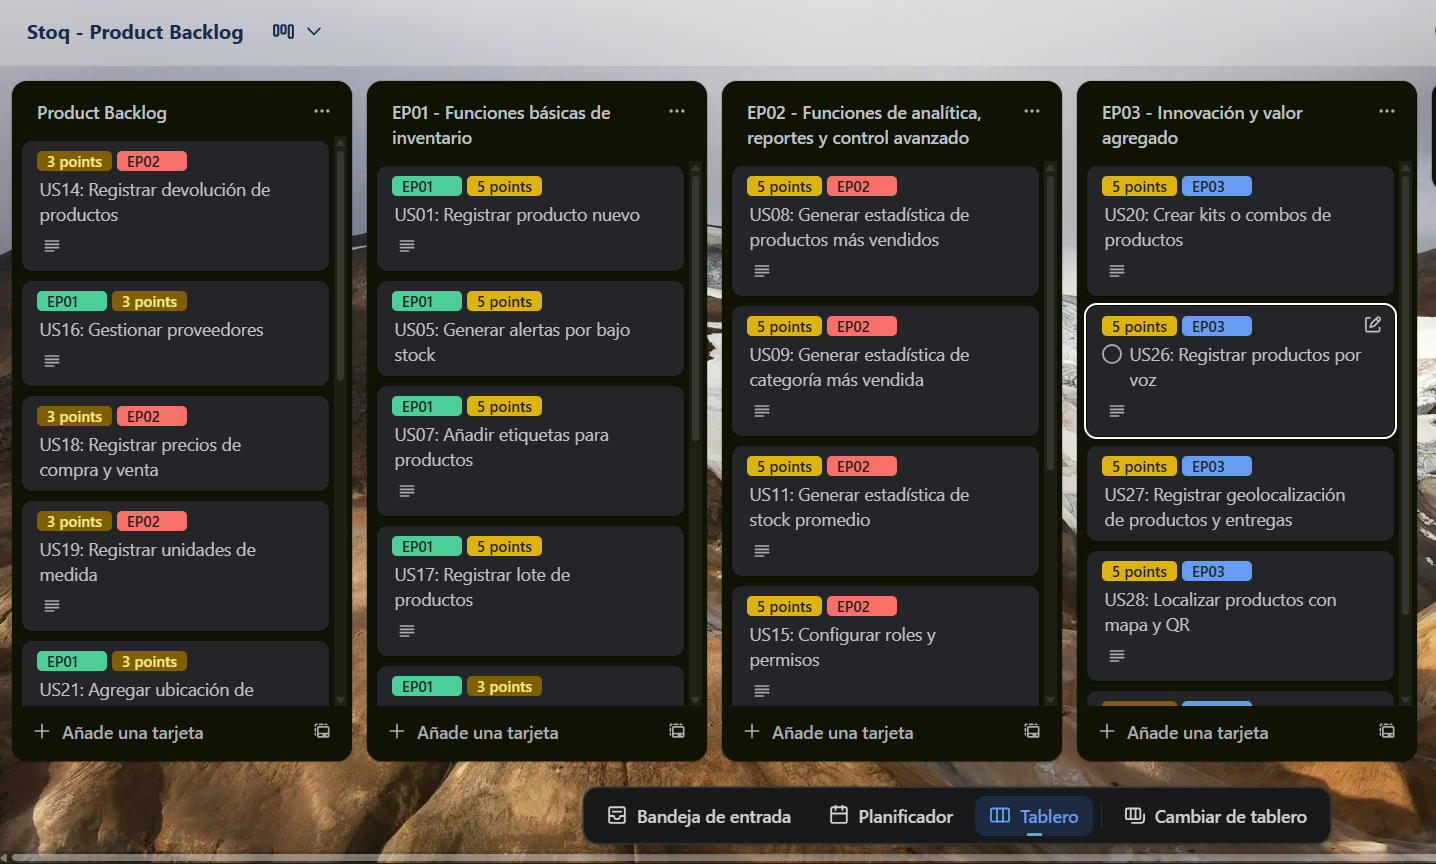
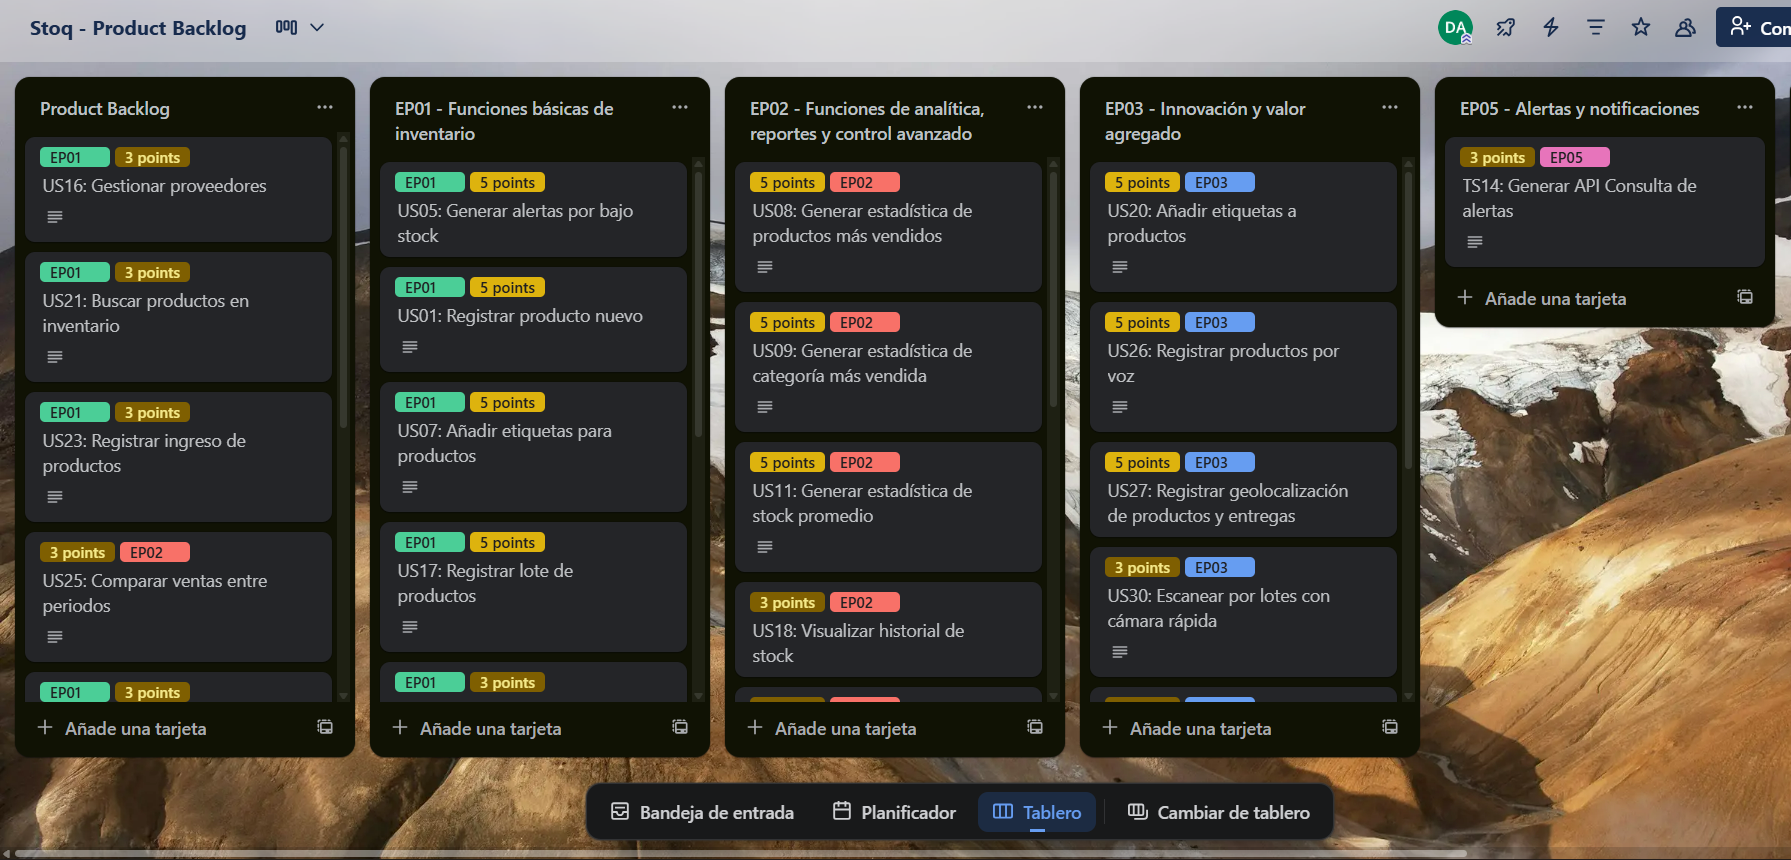
docs: Product Backlog nueva version2

diff --git a/README.md b/README.md
@@ -449,13 +449,13 @@ La finalidad de realizar entrevistas es obtener un alcance más completo sobre l
 ### 2.2.3. Análisis de entrevistas
 
 **Segmento 1: Bodegas especializadas por rubro**
-Los entrevistados (Milagros, Elvis, Catalina) gestionan inventarios de forma manual, con apuntes en cuadernos o Excel, lo que genera dificultades para mantener un control preciso y actualizado. Las principales problemáticas incluyen falta de control sobre fechas de vencimiento, pérdidas por productos no vendidos a tiempo, ausencia de automatización, y falta de sistemas que permitan actualizar precios en tiempo real o visualizar el inventario de manera dinámica. Los entrevistados manifiestan la necesidad de plataformas digitales con alertas y reportes para mejorar la gestión, delegar tareas y reducir errores humanos, lo que apuntaría a una alta demanda por soluciones tecnológicas accesibles y específicas para bodegas tradicionales.
+Los entrevistados (Milagros, Elvis, Catalina) gestionan inventarios de forma manual, con cuadernos o Excel, lo que dificulta mantener la información precisa y actualizada. Cuando los datos llegan tarde, los productos se vencen sin que nadie lo note y se pierden ventas; además, los cambios de precio no quedan registrados. El problema no es falta de interés por la tecnología, sino que registrar toma tiempo mientras atienden a clientes. Para este grupo la solución debe reducir pasos: registro rápido (por voz en el celular, duplicar fichas o cargar varios productos de una vez), una pantalla que muestre “lo que vence pronto” con avisos simples y la ubicación por estantería para encontrar productos sin perder minutos. Con ello deberían bajar las pérdidas, reducir el tiempo de registro y aumentar la confianza en el sistema.
 
 **Segmento 2: Startups y emprendedores en expansión con necesidades logísticas**
 
-Los entrevistados Juan Carlos, Leonardo y Eduardo manejan inventarios mayormente manuales o semiautomatizados (uso de Excel, cuadernos, y sistemas en proceso de digitalización). Tienen una mayor actividad y volumen, con operaciones en crecimiento, y venden usando canales digitales como WhatsApp y redes sociales. Aunque reconocen la importancia de digitalizar y automatizar sus procesos para ganar eficiencia, enfrentan obstáculos como la complejidad o altos costos de las soluciones disponibles. Buscan sistemas simples, automáticos, que avisen sobre niveles de stock y faciliten la organización para poder escalar su negocio sin perder control.
+Los entrevistados Juan Carlos, Leonardo y Eduardo manejan inventarios mayormente manuales o semiautomatizados (Excel, cuadernos y sistemas en transición). El reto principal es coordinar más volumen y varios canales (WhatsApp y redes). Muchas salidas no quedan en un solo registro y preparar pedidos demora porque no se ubican los productos con precisión; además, varias personas cambian precios y no se sabe quién hizo qué. Necesitan orden sin un sistema pesado: roles y permisos con historial para saber quién hizo cada cambio, zonas y códigos QR para acelerar el picking, combos que resten insumos automáticamente y reportes simples por canal para ver qué se mueve más. Así pueden crecer sin perder control.
 
-Ambos segmentos comparten retos similares: control manual, dificultades con productos perecibles, pérdidas por falta de actualización o visibilidad, y la necesidad de automatización. Sin embargo, los bodegueros tradicionales tienen una menor adopción y experiencia con herramientas digitales y requieren soluciones accesibles y adaptadas a su realidad, mientras que las startups muestran interés en herramientas integradas y avanzadas, pero preocupadas por la complejidad y costos. Una solución escalable, intuitiva y que pueda adaptarse a distintos tamaños de negocios sería ideal para cubrir ambos mercados.
+Ambos segmentos comparten el manejo manual, los problemas con perecibles y la falta de visibilidad, por lo que requieren automatización. La diferencia es que las bodegas piden simplicidad inmediata, mientras que las startups necesitan además trazabilidad y velocidad. Por ello se propone empezar con un núcleo fácil de usar (alertas de caducidad, registro rápido, ubicación clara y cambios de precio con historial) y activar, solo si se requiere, funciones de escala como roles, QR, combos y reportes por canal. Si con esto bajan las mermas, disminuye el tiempo de registro y sube la exactitud del stock, la solución será escalable, intuitiva y eficiente, alineada con lo que se recogió en las entrevistas.
 
 ## 2.3. Needfinding
 
@@ -1990,7 +1990,7 @@ En esta sección se describen las historias técnicas que desarrollamos para imp
 <!-- SPK05 -->
 <table border="1" cellspacing="0" cellpadding="8">
   <tr><th>Story ID</th><th>User</th><th>Priority</th><th>Epic</th></tr>
-  <tr><td>SPK054</td><td>Equipo de desarrollo</td><td>Baja</td><td>EP03 - Innovación y valor agregado</td></tr>
+  <tr><td>SPK05</td><td>Equipo de desarrollo</td><td>Baja</td><td>EP03 - Innovación y valor agregado</td></tr>
   <tr><th>Title</th><td colspan="3">Escaneo por lotes con cámara rápida (visión ML)</td></tr>
   <tr><th colspan="4">Description</th></tr>
   <tr><td colspan="4">La app toma una foto al lote; una API de visión (p.ej., Google ML Kit) devuelve etiquetas genéricas. El usuario confirma producto exacto y cantidad antes de registrar; se puede saltar a su ubicación en el almacén virtual.</td></tr>
@@ -2064,8 +2064,9 @@ _Imagen (N°13). Elaboración propia. Realizado en UXPRESSIA_
     <tr><td>29</td><td>TS06</td><td>Generar API Productos por etiqueta</td><td>3</td></tr>
     <tr><td>31</td><td>TS07</td><td>Generar API Registro de inventario</td><td>3</td></tr>
     <tr><td>32</td><td>US30</td><td>Escanear por lotes con cámara rápida</td><td>3</td></tr>
-    <tr><td>33</td><td>US24</td><td>Visualizar resumen de stock por categoría</td><td>2</td></tr>
-   
+    <tr><td>33</td><td>TS14</td><td>Generar API Consulta de alertas</td><td>3</td></tr>
+    <tr><td>34</td><td>US24</td><td>Visualizar resumen de stock por categoría</td><td>2</td></tr>
+    
 
   </tbody>
 </table>
